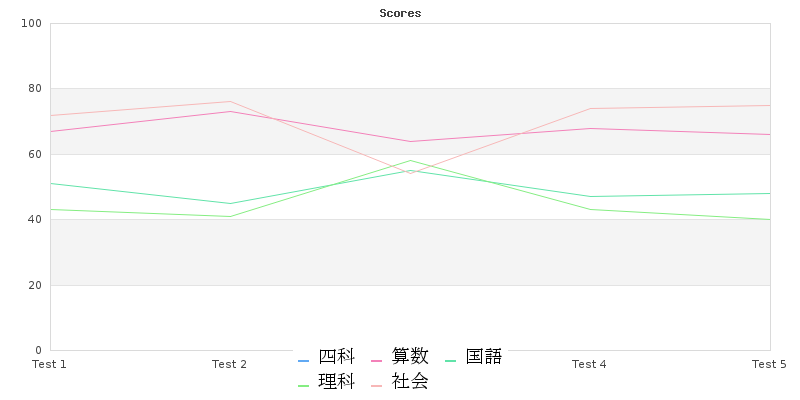
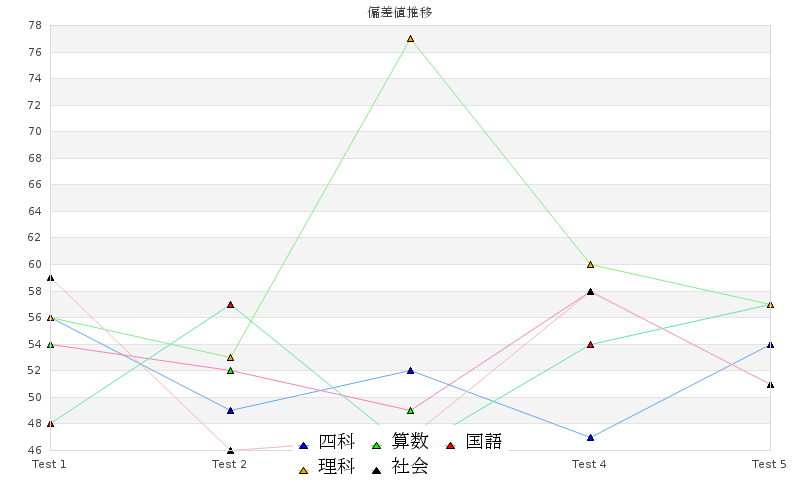
20230601

diff --git a/laravel-seating-app/resources/js/app.js b/laravel-seating-app/resources/js/app.js
@@ -28,3 +28,43 @@ function drop(event) {
   var data = event.dataTransfer.getData("text/plain");
   event.target.appendChild(document.getElementById(data));
 }
+
+// functionfuncprint(){
+
+//   letheader = document.getElementById('header'), footer = document.getElementById('footer');
+
+//   header.style.visibility = "hidden";
+
+//   footer.style.visibility = "hidden";
+
+//   window.print();
+
+
+
+
+//   header.style.visibility = "visible";
+
+//   footer.style.visibility = "visible";
+
+// };
+
+$(function(){
+  //印刷ボタンをクリックした時の処理
+  $('.print-btn').on('click', function(){
+    
+  //プリントしたいエリアの取得
+  var printArea = document.getElementsByClassName("print-area");
+
+  //プリント用の要素「#print」を作成し、上で取得したprintAreaをその子要素に入れる。
+  $('body').append('<div id="print" class="printBc"></div>');
+  $(printArea).clone().appendTo('#print');
+
+  //この下に、以降の処理が入ります。
+  $('body > :not(#print)').addClass('print-off');
+  window.print();
+
+  //window.print()を実行した後、作成した「#print」と、非表示用のclass「print-off」を削除
+  $('#print').remove();
+  $('.print-off').removeClass('print-off');
+   });
+  });

diff --git a/laravel-seating-app/resources/css/app.css b/laravel-seating-app/resources/css/app.css
@@ -116,3 +116,7 @@
   background-color: #6ccb5f;
   /* justify-content: space-between; */
 }
+
+.print-off {
+  display: none;
+}

diff --git a/laravel-seating-app/resources/views/seats/show.blade.php b/laravel-seating-app/resources/views/seats/show.blade.php
@@ -1,7 +1,35 @@
 @include('layouts.header')
+
     <main class="show_container">
-        <!-- 点数表 -->
         <aside>
+        <div>{{ $seat->studentId }}</div>
+        <div>{{ $seat->name }}</div>{{ $seat->courceOld }}{{ $seat->courceNow }}
+        <div>{{ $seat->ruby }}</div>{{ $seat->newStudent }}{{ $seat->forward }}{{ $seat->remarks }}
+
+
+        <h2>四科成績表</h2>
+        <!-- 偏差値表 -->
+            <div class="score_container">
+                <div class="student_item item_center">テスト名</div>
+                <div class="student_item item_center">四科偏差値</div>
+                <div class="student_item item_center">算数偏差値</div>
+                <div class="student_item item_center">国語偏差値</div>
+                <div class="student_item item_center">理科偏差値</div>
+                <div class="student_item item_center">社会偏差値</div>
+            </div>
+        @foreach ($privateScores as $score)
+            <div class="score_container">
+                <div class="student_item item_center">{{ $score->testName }}</div>
+                <div class="student_item item_center">{{ $score->fourDeviation }}</div>
+                <div class="student_item item_center">{{ $score->mathDeviation }}</div>
+                <div class="student_item item_center">{{ $score->JapaneseDeviation }}</div>
+                <div class="student_item item_center">{{ $score->scienceDeviation }}</div>
+                <div class="student_item item_center">{{ $score->societyDeviation }}</div>
+            </div>
+        @endforeach   
+        <br>
+        <!-- 点数表 -->
+            
             <div class="score_container">
                 <div class="student_item item_center">テスト名</div>
                 <div class="student_item item_center">四科合計点</div>
@@ -20,44 +48,30 @@
                 <div class="student_item item_center">{{ $score->societyScore }}</div>
             </div>
         @endforeach        
-        </aside>
-        <!-- 偏差値表 -->
-        <aside>
-            <div class="score_container">
-                <div class="student_item item_center">テスト名</div>
-                <div class="student_item item_center">四科偏差値</div>
-                <div class="student_item item_center">算数偏差値</div>
-                <div class="student_item item_center">国語偏差値</div>
-                <div class="student_item item_center">理科偏差値</div>
-                <div class="student_item item_center">社会偏差値</div>
-            </div>
-        @foreach ($privateScores as $score)
-            <div class="score_container">
-                <div class="student_item item_center">{{ $score->testName }}</div>
-                <div class="student_item item_center">{{ $score->fourDeviation }}</div>
-                <div class="student_item item_center">{{ $score->mathDeviation }}</div>
-                <div class="student_item item_center">{{ $score->JapaneseDeviation }}</div>
-                <div class="student_item item_center">{{ $score->scienceDeviation }}</div>
-                <div class="student_item item_center">{{ $score->societyDeviation }}</div>
-            </div>
-        @endforeach        
+        <!-- </aside> -->
+        
+        
+        <!-- <aside> -->
+             
         </aside>
         <article>
             <div>                
-                <h1>生徒情報詳細</h1>  
+                <h2>生徒情報詳細</h2>  
                 @if (session('flash_message'))
                   <div>{{ session('flash_message') }}</div>
                 @endif
 
                 <div>    
                     <a href="{{ route('seats.index') }}">&lt; 戻る</a> 
-                    <img src="{{ asset('charts/chart.png') }}" alt="Graph">                            
+                                                
                 </div>
 
                 <div>
-                    <div>{{ $seat->studentId }}</div>
-                    <div>{{ $seat->name }}{{ $seat->ruby }}{{ $seat->courceOld }}{{ $seat->courceNow }}</div>
-                    <div>{{ $seat->newStudent }}{{ $seat->forward }}{{ $seat->remarks }}</div>
+                    <div>
+                        <img src="{{ asset('charts/chart2.png') }}" alt="Graph">
+                    </div>
+                    <div></div>
+                    <div></div>
                     <a href="{{ route('seats.edit', $seat) }}" class="btn btn-outline-primary">編集</a>
                     <form action="{{ route('seats.destroy', $seat) }}" method="post">
                         @csrf

diff --git a/laravel-seating-app/app/Http/Controllers/SeatController.php b/laravel-seating-app/app/Http/Controllers/SeatController.php
@@ -187,61 +187,78 @@ class SeatController extends Controller
 
         // データ準備
         $testNames = [];
-        $fourScores = [];
-        $mathScores = [];
-        $JapaneseScores = [];
-        $scienceScores = [];
-        $societyScores = [];
+        $fourDeviations = [];
+        $mathDeviations = [];
+        $JapaneseDeviations = [];
+        $scienceDeviations = [];
+        $societyDeviations = [];
 
         foreach ($privateScores as $score) {
             $testNames[] = $score->testName;
-            $fourScores[] = $score->fourScore;
-            $mathScores[] = $score->mathScore;
-            $JapaneseScores[] = $score->JapaneseScore;
-            $scienceScores[] = $score->scienceScore;
-            $societyScores[] = $score->societyScore;
+            $fourDeviations[] = $score->fourDeviation;
+            $mathDeviations[] = $score->mathDeviation;
+            $JapaneseDeviations[] = $score->JapaneseDeviation;
+            $scienceDeviations[] = $score->scienceDeviation;
+            $societyDeviations[] = $score->societyDeviation;
         }
+
+        $maxs = [max($fourDeviations),
+                max($mathDeviations),
+                max($JapaneseDeviations),
+                max($scienceDeviations),
+                max($societyDeviations)];
+
+        $mins = [min($fourDeviations),
+                min($mathDeviations),
+                min($JapaneseDeviations),
+                min($scienceDeviations),
+                min($societyDeviations)];
+
         // グラフ生成前にフォントのパスを指定
-        //ipam.ttf、ipamp.ttf、ipag.ttf、ipagp.ttf
-        //FF_MINCHO、FF_PMINCHO、FF_GOTHIC、FF_PGOTHICと設定されます。
+        // ipam.ttf、ipamp.ttf、ipag.ttf、ipagp.ttf
+        // FF_MINCHO、FF_PMINCHO、FF_GOTHIC、FF_PGOTHICの順で設定
         putenv('GDFONTPATH=' . resource_path('fonts'));
 
         // グラフ生成
         $chartWidth = 800;
-        $chartHeight = 400;
+        $chartHeight = 500;
         $graph = new \Graph($chartWidth, $chartHeight);
 
         $graph->SetScale("textlin");
         $graph->SetMargin(50, 30, 20, 50);
-        $graph->title->Set("Scores");
-        // $graph->title->SetFont(FF_MINCHO);
-        $graph->title->SetFont(FF_FONT1, FS_BOLD);
+        $graph->title->Set("偏差値推移");
+        $graph->title->SetFont(FF_MINCHO, FS_NORMAL, 14);
+        // $graph->title->SetFont(FF_FONT1, FS_BOLD);
         $graph->xaxis->SetTickLabels($testNames);
-        $graph->yaxis->scale->SetAutoMin(0);
-        $graph->yaxis->scale->SetAutoMax(100);
+        $graph->yaxis->scale->SetAutoMin($mins);
+        $graph->yaxis->scale->SetAutoMax($maxs);
 
 
         $data = [
-            $fourScores,
-            $mathScores,
-            $JapaneseScores,
-            $scienceScores,
-            $societyScores
+            $fourDeviations,
+            $mathDeviations,
+            $JapaneseDeviations,
+            $scienceDeviations,
+            $societyDeviations
         ];
         
-        // $colors = ["blue", "green", "red", "orange", "black"];
+        $colors = ["blue", "green", "red", "orange", "black"];
         $subject = ["四科","算数","国語","理科","社会"];
         // $colors = ["#1374e9", "#1c9440", "#e4382a", "#fbc20f", "#202124"];
-        $colors = [0, 1, 2, 3, 4];
+        // $colors = [0, 1, 2, 3, 4];
         foreach ($data as $i => $scores) {
             $lineplot = new \LinePlot($scores);
             $lineplot->SetLegend($subject[$i]);
             $graph->legend->SetFont(FF_MINCHO, FS_NORMAL, 14);
             $lineplot->SetColor($colors[$i]);
+            // マーカーの設定
+            $lineplot->mark->SetType(MARK_UTRIANGLE); // マーカーの種類を設定
+            $lineplot->mark->SetFillColor($colors[$i]); // マーカーの塗りつぶし色を設定
+            $lineplot->mark->SetSize(4); // マーカーのサイズを設定
             $graph->Add($lineplot);
         }
         // グラフの出力
-        $graph->Stroke(public_path('charts/chart.png'));
+        $graph->Stroke(public_path('charts/chart2.png'));// . '?t=' . time()
 
         return view('seats.show', compact('seat','privateScores'));
     }

diff --git a/laravel-seating-app/resources/views/seats/edit.blade.php b/laravel-seating-app/resources/views/seats/edit.blade.php
@@ -14,28 +14,27 @@
                         </ul>
                     </div>
                 @endif
-                
                 <div>
-                    <a href="{{ route('seats.index') }}">&lt; 戻る</a>                                  
+                    <form style="background-color: green;" action="{{ route('seats.update', $seat) }}" method="post">
+                        @csrf
+                        @method('patch')
+                        <div>
+                            <label for="name">氏名(漢字)</label>
+                            <input type="text" name="name" value="{{ old('name', $seat->name) }}">
+                        </div>
+                        <div>
+                            <label for="ruby">氏名(カナ)</label>
+                            <input type="text" name="ruby" value="{{ old('ruby', $seat->ruby) }}">
+                        </div>
+                        <div>
+                            <label for="remarks">備考</label>
+                            <textarea name="remarks">{{ old('remarks', $seat->remarks) }}</textarea>
+                        </div>
+                        <button type="submit"  class="btn btn-outline-success">更新</button>
+                    </form>
+                    <a href="{{ route('seats.index') }}">&lt; 戻る</a>     
                 </div>
                 
-                <form action="{{ route('seats.update', $seat) }}" method="post">
-                    @csrf
-                    @method('patch')
-                    <div>
-                        <label for="name">氏名(漢字)</label>
-                        <input type="text" name="name" value="{{ old('name', $seat->name) }}">
-                    </div>
-                    <div>
-                        <label for="ruby">氏名(カナ)</label>
-                        <input type="text" name="ruby" value="{{ old('ruby', $seat->ruby) }}">
-                    </div>
-                    <div>
-                        <label for="remarks">備考</label>
-                        <textarea name="remarks">{{ old('remarks', $seat->remarks) }}</textarea>
-                    </div>
-                    <button type="submit">更新</button>
-                </form>
             </div>
         </article>
     </main>

diff --git a/laravel-seating-app/resources/views/layouts/header.blade.php b/laravel-seating-app/resources/views/layouts/header.blade.php
@@ -22,7 +22,7 @@
         <div class="collapse navbar-collapse" id="navbarSupportedContent">
           <ul class="navbar-nav me-auto mb-2 mb-lg-0">
             <li class="nav-item">
-              <a class="nav-link" href="#">検索</a>
+              <a class="nav-link" href="{{ route('seats.seatingChart') }}">検索</a>
             </li>
             <li class="nav-item dropdown">
               <a class="nav-link dropdown-toggle" href="#" id="navbarDropdown" role="button" data-bs-toggle="dropdown" aria-expanded="false">

diff --git a/laravel-seating-app/routes/web.php b/laravel-seating-app/routes/web.php
@@ -19,8 +19,7 @@ Auth::routes();
 Route::get('/', [HomeController::class, 'index'])->name('home');//App\Http\Controllers\HomeController
 
 Route::get('/home', [SeatController::class, 'index']);
-Route::get('/seatingChart', [SeatController::class, 'makeSeatingChart']);
-Route::get('/search', [SeatController::class, 'search']);
+Route::get('/seatingChart', [SeatController::class, 'makeSeatingChart'])->name('seats.seatingChart');
 // Route::get('/search', [SeatController::class, 'search']);
 
 

diff --git a/laravel-seating-app/resources/views/seats/seatingChart.blade.php b/laravel-seating-app/resources/views/seats/seatingChart.blade.php
@@ -32,7 +32,9 @@
   </div>
   
   <div class="drop_container" id="dropzone" ondragover="allowDrop(event)" ondrop="drop(event)">
-
+  <button class="print-btn">
+<span>結果だけを印刷する</span>
+</button>
   </div>
 </div>
 @include('layouts.footer')
